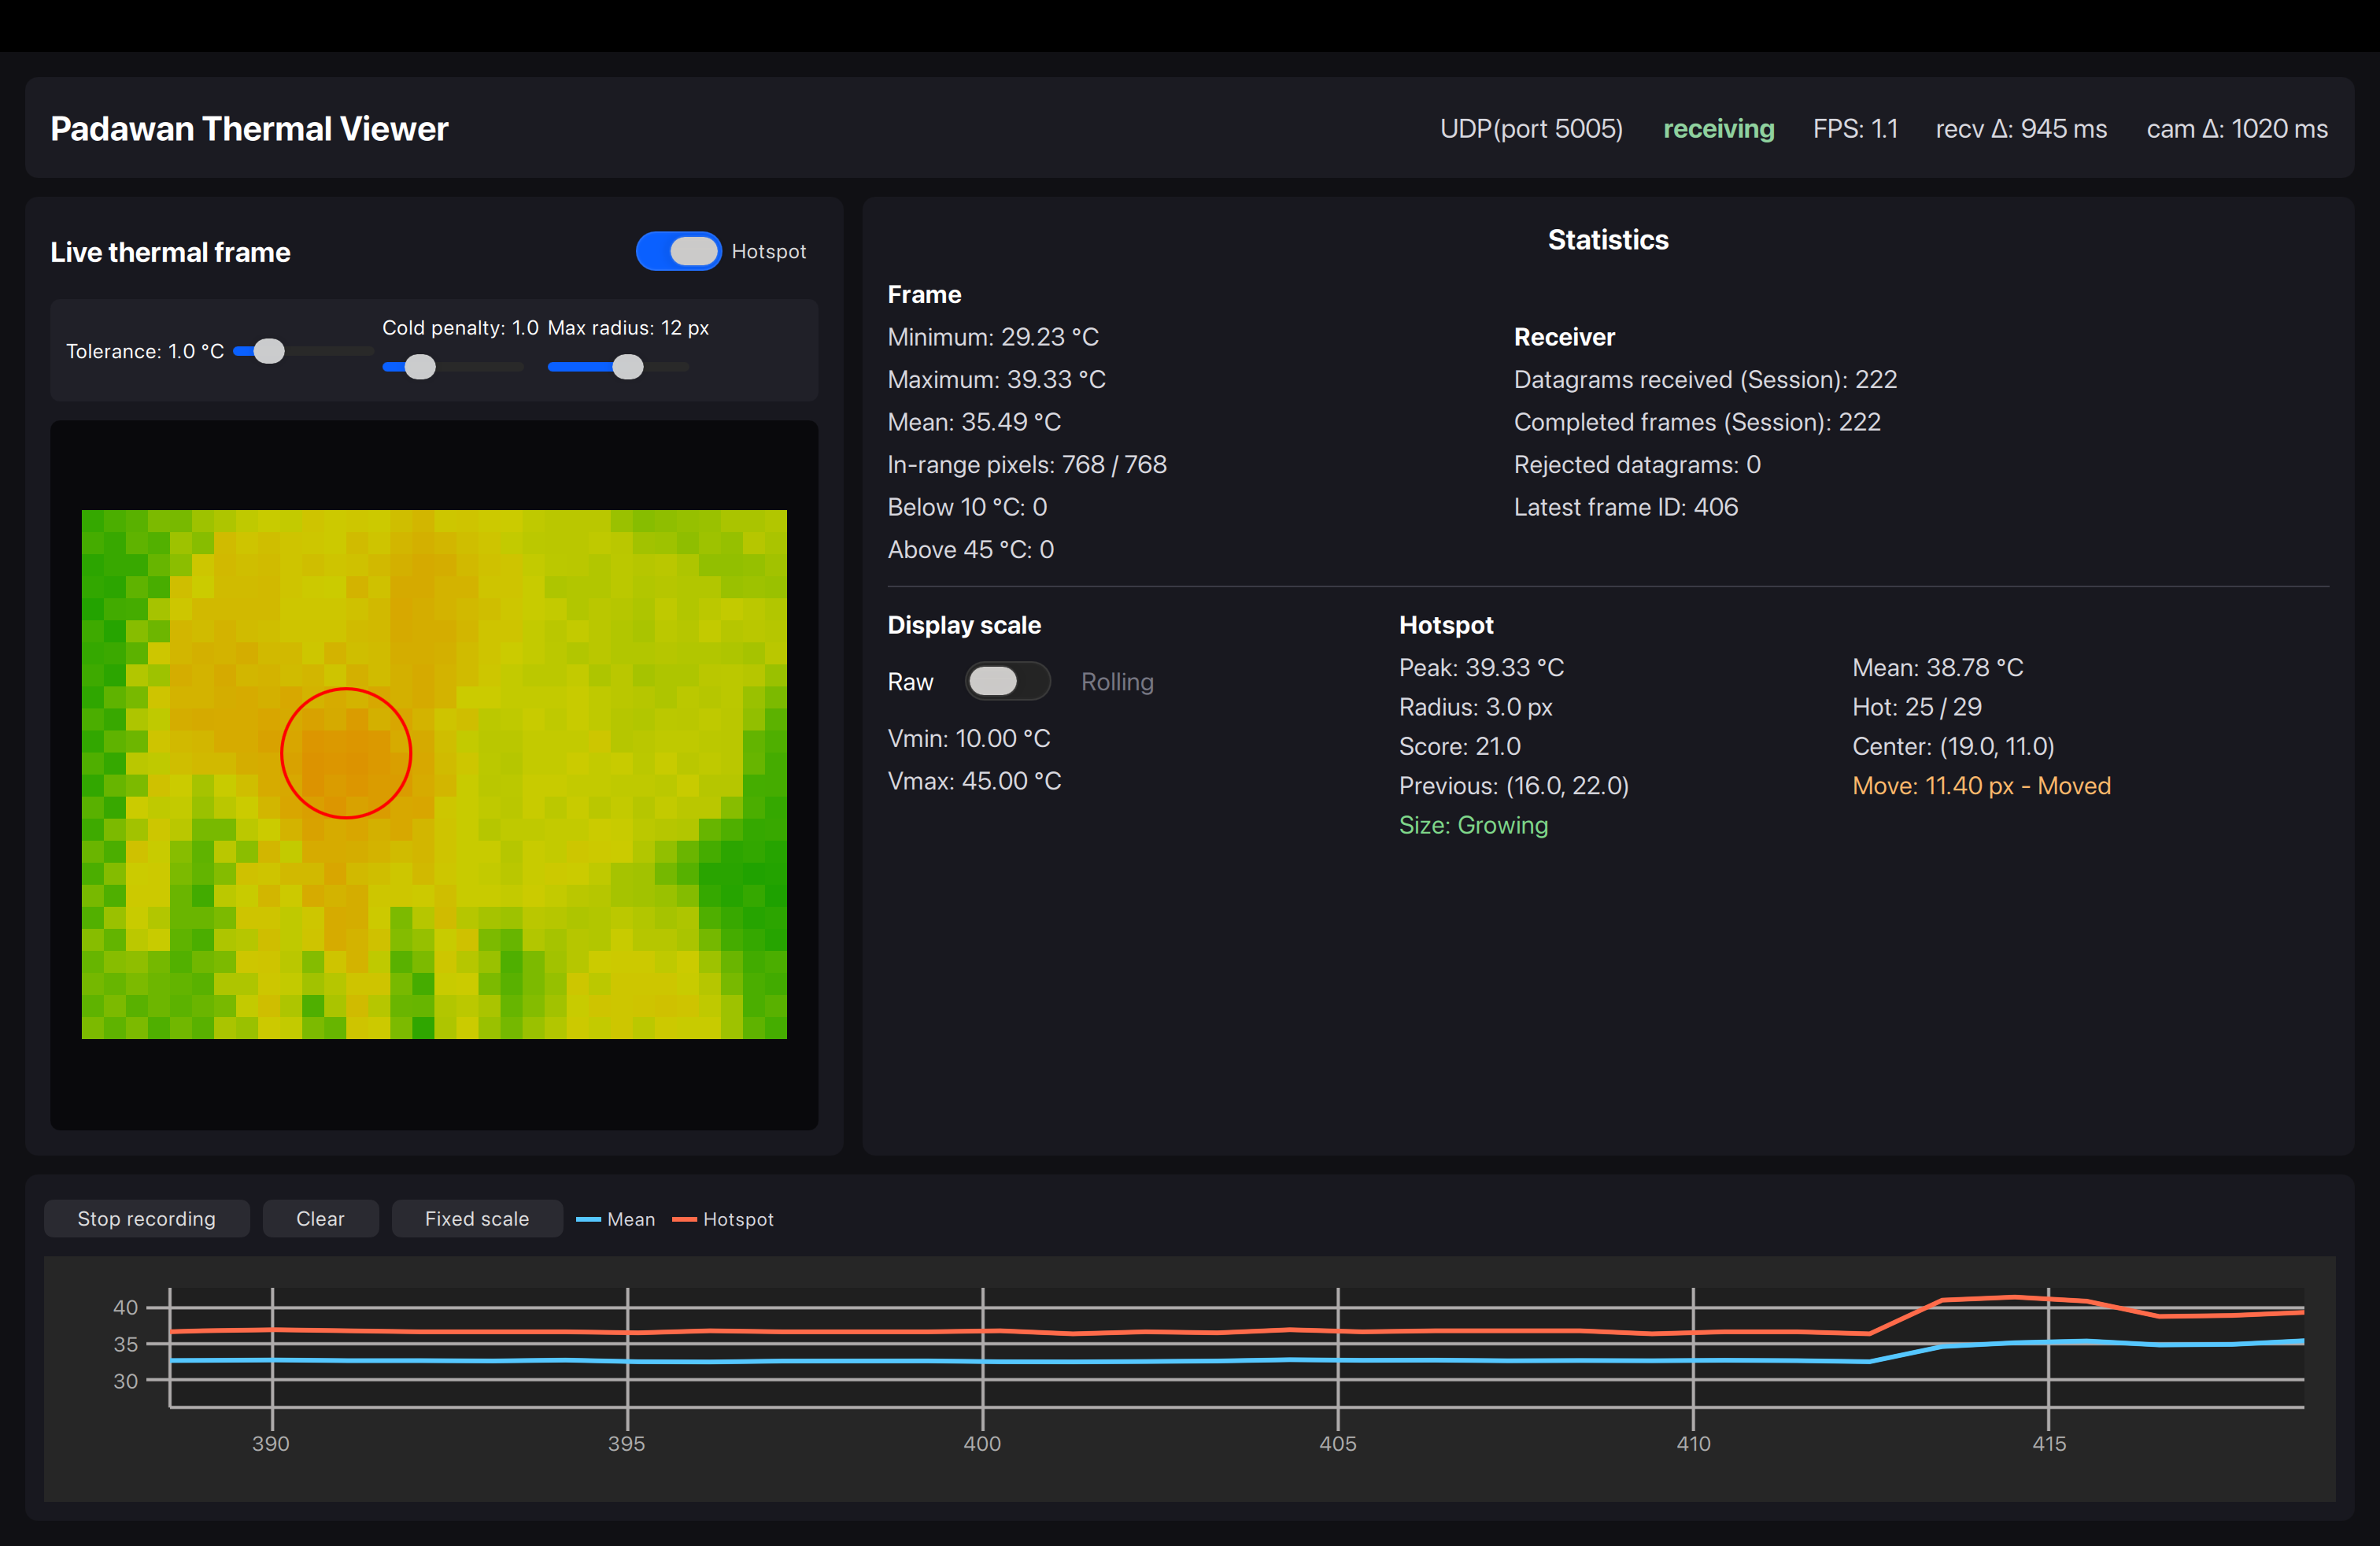
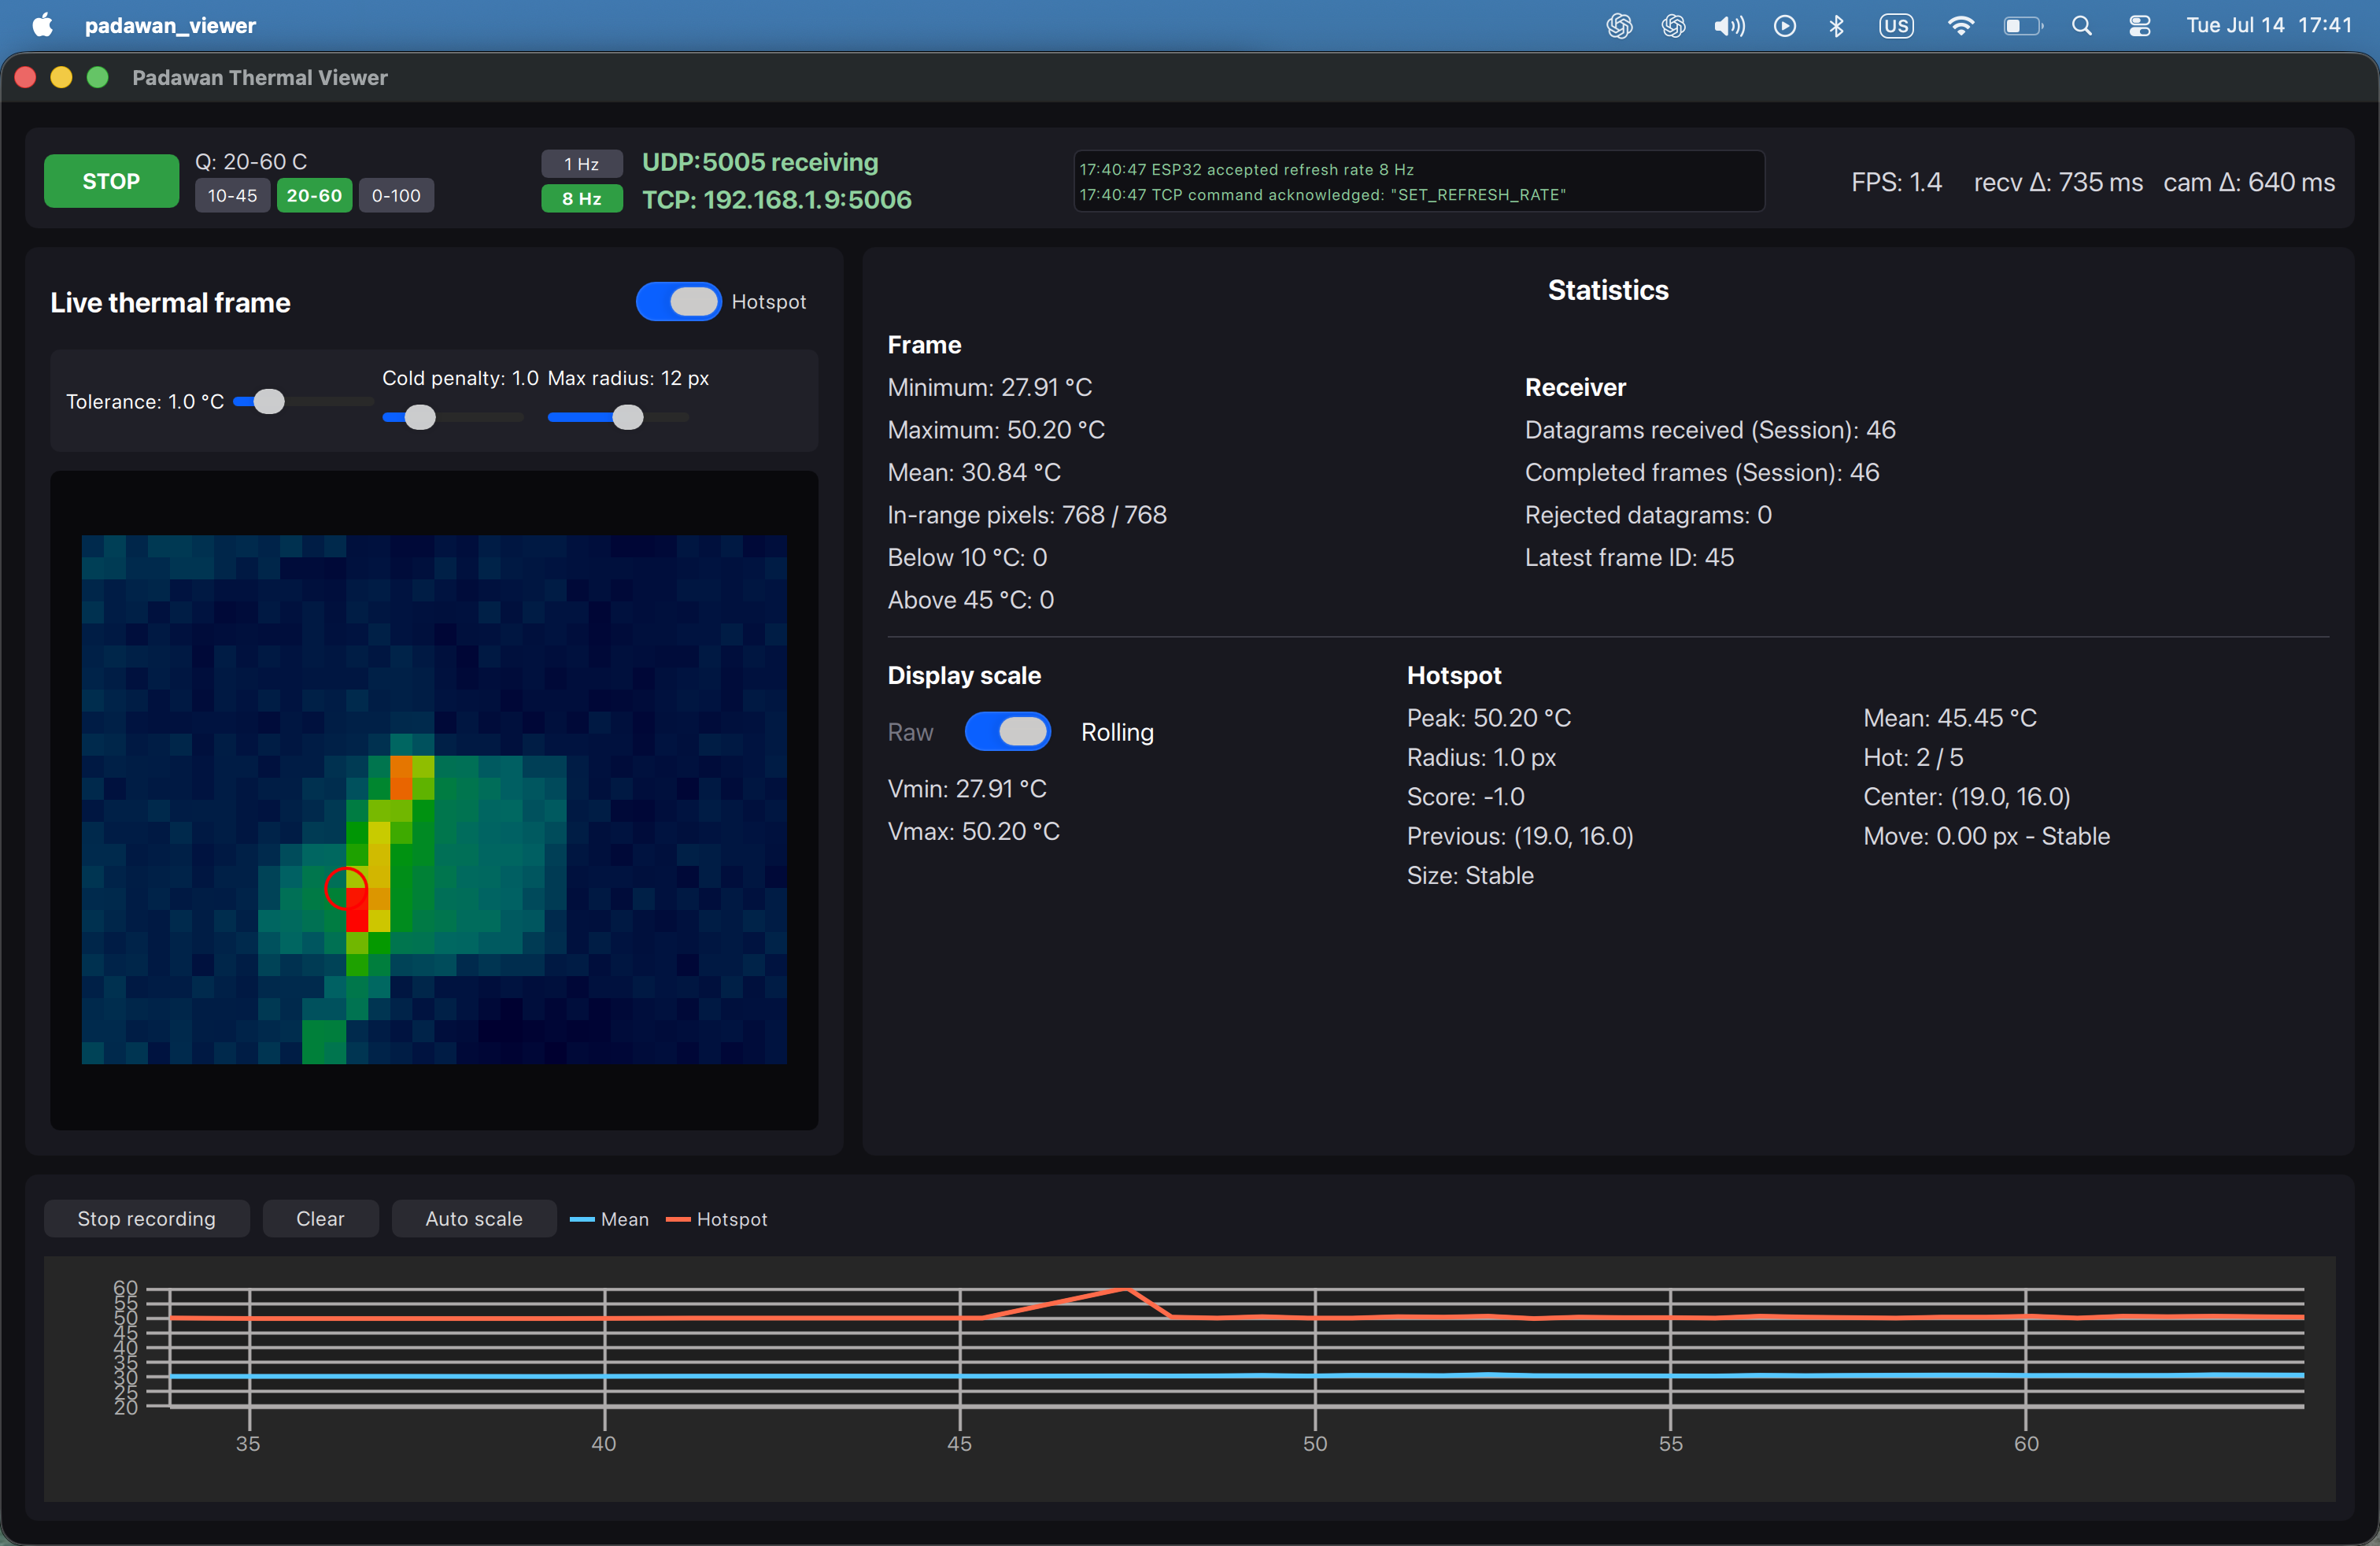
updated readme, change color palette to look similar to inferno on plotlib*

diff --git a/viewer/image/thermal_image_provider.cpp b/viewer/image/thermal_image_provider.cpp
@@ -1,9 +1,96 @@
-#include <QColor>
 #include <QDebug>
 
+#include <array>
+#include <cmath>
 #include <cstring>
 
 #include "thermal_image_provider.h"
+
+namespace
+{
+    struct PaletteStop
+    {
+        double position;
+        int red;
+        int green;
+        int blue;
+    };
+
+    /*
+     * Compact approximation of Matplotlib's "inferno" map.
+     *
+     * The original Python receiver used cmap="inferno"; keeping the same
+     * dark-purple -> orange -> pale-yellow progression makes low contrast
+     * thermal frames much easier to read than the previous rainbow-style HSV
+     * ramp, especially around the middle temperatures.
+     */
+    constexpr std::array<PaletteStop, 9> InfernoStops = {{
+        {0.000,   0,   0,   4},
+        {0.125,  31,  12,  72},
+        {0.250,  85,  15, 109},
+        {0.375, 136,  34, 106},
+        {0.500, 186,  54,  85},
+        {0.625, 227,  89,  51},
+        {0.750, 249, 140,  10},
+        {0.875, 249, 201,  50},
+        {1.000, 252, 255, 164},
+    }};
+
+    QRgb sampleInfernoPalette(int thermalIndex)
+    {
+        const double position =
+            static_cast<double>(thermalIndex)
+            / 253.0;
+
+        for (qsizetype index = 1;
+             index < static_cast<qsizetype>(InfernoStops.size());
+             ++index)
+        {
+            const PaletteStop &right =
+                InfernoStops[index];
+
+            if (position > right.position)
+                continue;
+
+            const PaletteStop &left =
+                InfernoStops[index - 1];
+
+            const double span =
+                right.position - left.position;
+
+            const double localPosition =
+                span > 0.0
+                    ? (position - left.position) / span
+                    : 0.0;
+
+            const auto interpolate =
+                [localPosition](int start, int end)
+                {
+                    return static_cast<int>(
+                        std::lround(
+                            start
+                            + (end - start) * localPosition
+                        )
+                    );
+                };
+
+            return qRgb(
+                interpolate(left.red, right.red),
+                interpolate(left.green, right.green),
+                interpolate(left.blue, right.blue)
+            );
+        }
+
+        const PaletteStop &last =
+            InfernoStops.back();
+
+        return qRgb(
+            last.red,
+            last.green,
+            last.blue
+        );
+    }
+}
 
 ThermalImageProvider::ThermalImageProvider()
     : QQuickImageProvider(QQuickImageProvider::Image),
@@ -29,40 +116,22 @@ QVector<QRgb> ThermalImageProvider::createColorTable()
 
     for (int value = 0; value < 256; ++value)
     {
-        /*
-         * convert the byte value into an HSV color.
-         *
-         * value 0:
-         *     hue approximately 240° → blue
-         *     low brightness
-         *
-         * value 255:
-         *     hue approximately 0° → red
-         *     full brightness
-         *
-         * Every byte therefore selects one color from a
-         * 256-entry blue-to-red thermal palette.
-         */
+        if (
+            value == InvalidValue
+            || value == ReservedValue
+        )
+        {
+            colorTable.append(qRgb(0, 0, 0));
+            continue;
+        }
 
-        const int hue =
-            240 - ((value * 240) / 255);
-
-        const int brightness =
-            48 + ((value * 207) / 255);
-
-        const QColor color =
-            QColor::fromHsv(
-                hue,
-                255,
-                brightness
-            );
-
-        // Store the RGB representation in the color table.
-        colorTable.append(color.rgb());
-
-
+        // Protocol values 1..254 are the actual thermal ramp.
+        colorTable.append(
+            sampleInfernoPalette(value - 1)
+        );
     }
-    // override the sentinel entries
+
+    // Keep sentinel entries distinct from real temperatures.
     colorTable[0] =
         qRgb(255, 0, 255);
 

diff --git a/firmware/hello_board/main/protocol/thermal_packet.h b/firmware/hello_board/main/protocol/thermal_packet.h
@@ -19,8 +19,8 @@
  */
 typedef struct __attribute__((packed)) {
     uint8_t magic[8];
-    uint8_t version;
-    uint8_t type;
+    uint8_t version; // 2 now
+    uint8_t type; // 01
     uint32_t frame_id;
     uint32_t timestamp_ms;
     uint8_t quantization_mode;

diff --git a/firmware/hello_board/main/wifi/wifi_sta.c b/firmware/hello_board/main/wifi/wifi_sta.c
@@ -13,8 +13,8 @@
 
 #define WIFI_CONNECTED_BIT BIT0
 
-#define WIFI_SSID "NOS-21BA"
-#define WIFI_PASS "M5MJMXCZ"
+#define WIFI_SSID "SSID"
+#define WIFI_PASS "PASSWORD"
 
 static const char *TAG = "wifi_sta";
 static EventGroupHandle_t wifi_event_group;

diff --git a/README.md b/README.md
@@ -1,19 +1,13 @@
 # **ESP32 Thermal UDP Stream**
 
-The purpose of this project is to build an embedded thermal-imaging system that streams quantized MLX90640 frames over UDP to live Python and Qt viewers.”
-
-An ESP32-S2 reads an MLX90640 thermal camera, converts the raw
-measurements into calibrated temperatures using the official Melexis
-library, quantizes the temperatures into a compact binary format, and
-streams complete thermal frames over UDP to either a C++/Qt viewer or
-a lightweight Python receiver.
+The purpose of this project is to build an embedded thermal imaging system that acquires data from an MLX90640 infrared sensor, converts the raw measurements into calibrated temperatures using the official Melexis library, quantizes the resulting thermal frame into a compact binary representation, and streams the data over UDP to real-time Python and C++/Qt viewers. In parallel, the ESP32-S2 exposes a dedicated TCP control interface that accepts commands such as starting or stopping the stream and changing the quantization mode at runtime, separating high-throughput data streaming from reliable configuration and control.
 
 
 ### Hardware
 ```text
 Microcontroller : ESP32-S2 (Flipper Zero Wi-Fi Dev Board)
 Thermal camera  : MLX90640-D55 (24×32 IR array)
-Receiver        : Any computer capable of running Python | * Streams complete thermal frames over Wi-Fi to a desktop receiver.
+Receiver        : Any computer capable of running Python | Streams complete thermal frames over Wi-Fi to a desktop receiver.
 ```
 
 ### Environment
@@ -29,35 +23,38 @@ OR
 `https://docs.espressif.com/projects/esp-idf/en/latest/esp32/get-started/`
 
 
-## **Overview**
+## Overview
 
-A custom firmware was developed using the ESP-IDF SDK.
+A custom firmware was developed using the ESP-IDF framework.
 
 The firmware:
 
-- Configures the ESP32 and MLX90640 over I²C (SDA on IO33 SCL on IO14).
-- Reads the factory calibration EEPROM.
-- Uses the official Melexis API to compute calibrated object temperatures.
-- Merges the two chessboard subpages into a complete thermal frame.
-- Quantizes temperatures into a single byte per pixel.
-- Packs the frame into a custom UDP protocol.
-- Streams the packet over Wi-Fi to a Python receiver.
+- Configures the ESP32-S2 and MLX90640 over I²C (SDA on GPIO33, SCL on GPIO14).
+- Periodically broadcasts an obfuscated UDP discovery packet, allowing compatible viewers to automatically detect the device.
+- Reads and parses the sensor’s factory calibration EEPROM.
+- Uses the official Melexis API to convert raw sensor data into calibrated object temperatures.
+- Merges the two MLX90640 chessboard subpages into complete thermal frames.
+- Quantizes the temperature data into a compact one-byte-per-pixel representation.
+- Encapsulates each frame in a custom binary application protocol.
+- Streams the resulting packets over Wi-Fi using UDP.
+- Exposes a dedicated TCP control interface for runtime configuration (start/stop streaming, quantization mode, refresh rate, etc.).
 
-The quantization uses:
-
+The default quantization scheme is:
 ```
 < 10°C      -> 0
 10–45°C     -> 1–254
 > 45°C      -> 255
 ```
 
-allowing the complete **24×32** thermal frame (768 pixels) to fit comfortably inside a single UDP packet.
+This representation allows an entire 32 × 24 thermal frame (768 pixels), together with its protocol header, to fit comfortably within a single UDP datagram.
 
 ## C++ / Qt Viewer
 
-The C++ receiver requires installing [Qt](https://doc.qt.io/qt-6/get-and-install-qt-cli.html).
+The desktop viewer is implemented in modern C++ using Qt 6 and QML.
 
-The viewer receives UDP datagrams, validates and decodes them, displays the thermal frame through a QML interface, computes basic frame analytics, supports both rolling and fixed display scales, performs a simple hotspot detection, and plots a live time series of the frame mean temperature and hotspot temperature.
+The application automatically discovers the device, receives and validates UDP datagrams, decodes the custom binary protocol, and renders the thermal image in real time. It provides both rolling and fixed display scales, computes live frame statistics (minimum, maximum, mean, and valid pixel counts), performs lightweight hotspot detection, and displays real-time temperature plots for both the frame mean and the detected hotspot.
+
+The viewer also communicates with the ESP32 through the TCP control channel, allowing runtime configuration of parameters such as the quantization mode, streaming state, and sensor refresh rate without interrupting the data stream.
 
 ![qt_viewer](pictures/qt_viewer.png)
 
@@ -121,6 +118,6 @@ uv run stream.py
 - Export of recorded thermal sequences for offline analysis.
 ```
 
-## Design Notes
+## Notes
 
 `journals/` contains personal development notes, implementation decisions, encountered issues, and lessons learned.